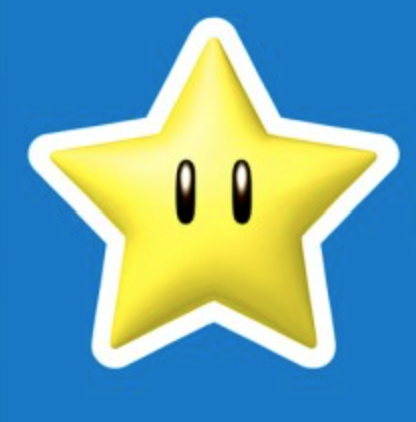
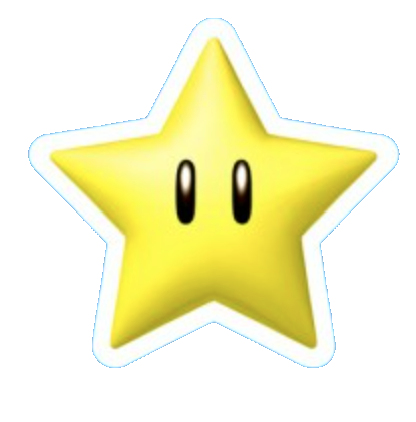
cropped images and fixed minor issue

diff --git a/main.py b/main.py
@@ -26,7 +26,7 @@ import pygame as pg
 from pygame.sprite import Sprite
 
 # built in libraries
-from random import * # used to generate pseudo-random variables; EX: generate random numbers; choose single option from multiple options
+from random import * # used to generate pseudo-random variables; EX: generate random numbers, choose single option from multiple options
 import sys # provides functions and variables that are used to change different parts of runtime environment
 import time # allows to work with time in Python; EX: getting current time, pausing the program
 import os # provides functions for interacting with the operating system
@@ -34,7 +34,7 @@ import os # provides functions for interacting with the operating system
 # created libraries
 from settings import * # contains height and width of window, time, and FPS variables; the * imports everything from it
 
-# global variables
+# global variables for colors
 WHITE = (255, 255, 255)
 BLACK = (0, 0, 0)
 RED = (255, 0, 0)
@@ -182,10 +182,11 @@ class Game:
                 # while playing game, pass; while not playing and on "play again" screen, pressing "y" will respawn the player and reset the time, lives, and stars
                 if keys[pg.K_y]:
                     if self.alive == True:
-                        self.life = 1
+                        pass
                     if self.alive == False:
                         self.player = Player(self.all_sprites, self.sf / 25)
                         self.alive = True
+                        self.life = 1
                         self.restart = pg.time.get_ticks()
                         self.restart1 = self.stars
                 # if window is closed, everything quits
@@ -323,7 +324,7 @@ class Pwrup(Sprite):
         # coords so it spawns in right center of screen
         x = WIDTH
         y = HEIGHT / 2
-        star_image = pg.image.load(os.path.join(img_folder, 'heart.jpg')).convert_alpha() # loads image
+        star_image = pg.image.load(os.path.join(img_folder, 'heart.png')).convert_alpha() # loads image
         self.image = pg.transform.scale(star_image,pg.math.Vector2(star_image.get_size())* sf) # scales image
         self.rect = self.image.get_rect(center = (x,y))
         self.pos = pg.math.Vector2(self.rect.topleft)
